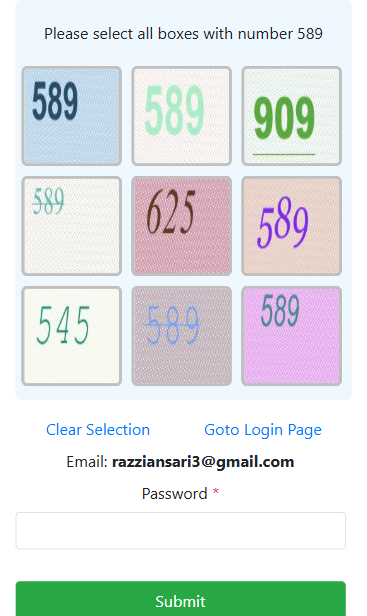
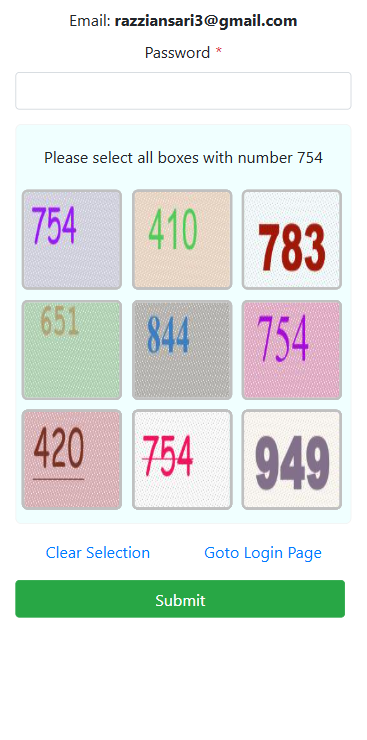
local captcha solver - phase 1

diff --git a/utils/local_captcha_solver.py b/utils/local_captcha_solver.py
@@ -1,0 +1,118 @@
+# utils/local_captcha_solver.py
+import re
+import os
+import pytesseract
+from PIL import Image
+from playwright.sync_api import Page
+
+
+class LocalCaptchaSolver:
+    def __init__(self, tesseract_cmd: str = None):
+        """
+        Initialize solver. Optionally configure Tesseract binary path.
+        """
+        if tesseract_cmd:
+            pytesseract.pytesseract.tesseract_cmd = tesseract_cmd
+
+    def get_visible_captcha_number(self, page: Page) -> str:
+        """
+        Finds the captcha instruction text currently visible in #captcha-main-div,
+        extracts and returns the target number (e.g., '754').
+        """
+        script = """
+        () => {
+            const candidates = document.querySelectorAll("#captcha-main-div div.box-label");
+
+            for (const el of candidates) {
+                const rect = el.getBoundingClientRect();
+                if (rect.width === 0 || rect.height === 0) continue;
+
+                const elemAtPoint = document.elementFromPoint(
+                    rect.left + rect.width / 2,
+                    rect.top + rect.height / 2
+                );
+
+                if (elemAtPoint === el || el.contains(elemAtPoint)) {
+                    return el.textContent.trim();
+                }
+            }
+            return null;
+        }
+        """
+
+        text = page.evaluate(script)
+
+        if text:
+            # Example: "Please select all boxes with number 754"
+            match = re.search(r"\d+", text)
+            if match:
+                number = match.group(0)
+                print(f"✅ Captcha number detected: {number}")
+                return number
+            else:
+                raise ValueError(f"Captcha text found but no number detected: '{text}'")
+        else:
+            raise ValueError("No visible captcha element found in DOM")
+
+    def get_visible_boxes(self, page: Page):
+        """
+        Returns Playwright locators for only the visible grid boxes (#captcha-main-div div.col-4).
+        """
+        script = """
+        () => {
+            const candidates = document.querySelectorAll("#captcha-main-div div.col-4");
+            const visible = [];
+            for (const el of candidates) {
+                const rect = el.getBoundingClientRect();
+                if (rect.width === 0 || rect.height === 0) continue;
+
+                const cx = rect.left + rect.width / 2;
+                const cy = rect.top + rect.height / 2;
+                const elemAtPoint = document.elementFromPoint(cx, cy);
+
+                if (elemAtPoint === el || el.contains(elemAtPoint)) {
+                    visible.push(el.getAttribute("id"));
+                }
+            }
+            return visible;
+        }
+        """
+        box_ids = page.evaluate(script)
+        return [page.locator(f"#{bid}") for bid in box_ids]
+
+    def solve_grid_captcha(self, page: Page):
+        """
+        Full captcha solving flow:
+        - Extract target number
+        - OCR visible boxes
+        - Click boxes that match
+        """
+        target = self.get_visible_captcha_number(page)
+        visible_boxes = self.get_visible_boxes(page)
+
+        print(f"🔍 Found {len(visible_boxes)} visible boxes.")
+        matched_boxes = []
+
+        for i, box in enumerate(visible_boxes):
+            img = box.locator("img")
+            path = f"box_{i}.png"
+            img.screenshot(path=path)
+
+            # OCR - restrict to digits only
+            text = pytesseract.image_to_string(
+                Image.open(path),
+                config="--psm 6 -c tessedit_char_whitelist=0123456789"
+            ).strip()
+
+            print(f"🖼 Box {i} OCR -> '{text}'")
+
+            if target in text:
+                matched_boxes.append(box)
+
+            os.remove(path)
+
+        # Click all matches
+        for mb in matched_boxes:
+            mb.click()
+
+        print(f"✅ Clicked {len(matched_boxes)} boxes with number {target}.")

diff --git a/utils/captcha_solver.py b/utils/captcha_solver.py
@@ -1,35 +1,56 @@
+import logging
+import re
 from twocaptcha import TwoCaptcha
+
+logging.basicConfig(
+    level=logging.INFO,
+    format="%(asctime)s - %(levelname)s - %(message)s"
+)
 
 class CaptchaSolver:
     def __init__(self):
-        self.api_key = "a0aa07af3e6316a114d4f0e409291bf7"
+        self.api_key = "62adb248a238336da88e6a50389d2c69"
         self.solver = TwoCaptcha(self.api_key)
 
     def solve_coordinates(self, page, captcha_selector: str):
-        """
-        Takes a screenshot of the captcha element, sends it to 2Captcha,
-        retrieves coordinates, and clicks the right spots on the page.
-        """
         captcha_element = page.query_selector(captcha_selector)
         if not captcha_element:
-            raise Exception("Captcha element not found")
+            raise Exception("❌ Captcha element not found")
 
-        # Save screenshot of captcha
+        # Save screenshot
         captcha_image_path = "captcha.png"
         captcha_element.screenshot(path=captcha_image_path)
+        logging.info(f"📸 Captcha screenshot saved: {captcha_image_path}")
 
-        # Send to 2Captcha
         try:
+            logging.info("➡ Sending captcha to 2Captcha...")
             result = self.solver.coordinates(captcha_image_path)
-            coords = result.get("coordinates", [])
+            logging.info(f"⬅ Raw response from 2Captcha: {result}")
         except Exception as e:
-            raise Exception(f"Captcha solving failed: {e}")
+            logging.error(f"❌ Captcha solving failed: {e}")
+            raise
 
-        # Get element bounding box
+        code_str = result.get("code")
+        if not code_str or not code_str.startswith("coordinates:"):
+            raise Exception(f"❌ Unexpected 2Captcha response: {code_str}")
+
+        # Parse coordinates
+        coords = []
+        matches = re.findall(r"x=(\d+),y=(\d+)", code_str)
+        for mx, my in matches:
+            coords.append({"x": int(mx), "y": int(my)})
+
+        if not coords:
+            raise Exception(f"❌ Could not parse coordinates from: {code_str}")
+
+        # Get captcha box
         box = captcha_element.bounding_box()
         if not box:
-            raise Exception("Could not get bounding box of captcha")
+            raise Exception("❌ Could not get bounding box of captcha")
 
-        # Click all coordinates returned
+        logging.info(f"📦 Captcha bounding box: {box}")
         for coord in coords:
-            page.mouse.click(box["x"] + coord["x"], box["y"] + coord["y"])
+            x = box["x"] + coord["x"]
+            y = box["y"] + coord["y"]
+            logging.info(f"🖱 Clicking at: ({x}, {y})")
+            page.mouse.click(x, y)

diff --git a/pages/login_page.py b/pages/login_page.py
@@ -1,5 +1,6 @@
 from playwright.sync_api import Page
-from utils.captcha_solver import CaptchaSolver
+# from utils.captcha_solver import CaptchaSolver
+from utils.local_captcha_solver import LocalCaptchaSolver
 import time
 
 
@@ -8,12 +9,12 @@ class LoginPage:
         self.page = page
         self.email_field = "div.mb-3:has(label:has-text('Email')) input[type='text']:visible"
         self.verify_button = "button#btnVerify"
-        self.captcha_selector = "#captcha-main-div"
-        self.password_field = "div:has(label:has-text('Password')) input[type='password']"
-        self.submit_button = "button[type='submit']"
+        self.captcha_selector = "#captcha-main-div:visible"
+        self.password_field = "div:has(label:has-text('Password')) input[type='password']:visible"
+        self.submit_button = "button[type='submit']:visible"
 
-        # ✅ No API key passed here anymore
-        self.solver = CaptchaSolver()
+        # self.solver = CaptchaSolver()
+        self.solver = LocalCaptchaSolver()
 
     def is_loaded(self):
         return self.page.is_visible(self.verify_button)
@@ -31,7 +32,9 @@ class LoginPage:
         """
         self.page.wait_for_load_state("networkidle", timeout=60000)
         self.page.wait_for_selector(self.captcha_selector)
-        self.solver.solve_coordinates(self.page, self.captcha_selector)
+
+        self.solver.solve_grid_captcha(self.page)
+        # self.solver.solve_coordinates(self.page, self.captcha_selector)
         print("Captcha solved successfully.")
 
     def enter_password(self, password: str):

diff --git a/workflows/main.py b/workflows/main.py
@@ -23,9 +23,11 @@ def run_main_workflow():
         login.click_verify()
         login.solve_captcha()
         login.enter_password("Razzi@786")
-        login.submit_form()
+        login.page.wait_for_timeout(1000)
+        # login.submit_form()
 
         
     finally:
-        browser.close()
-        playwright.stop()
+        print("hi")
+        # browser.close()
+        # playwright.stop()
